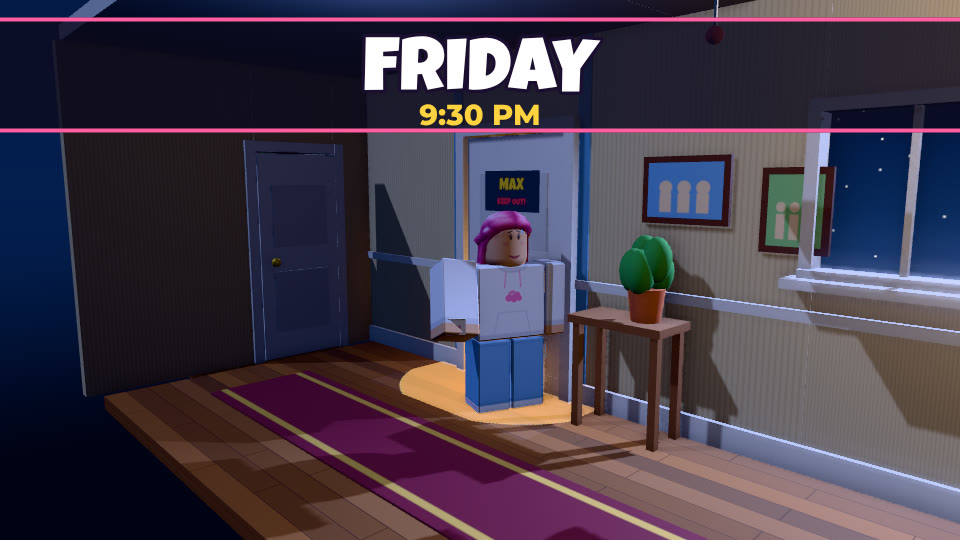
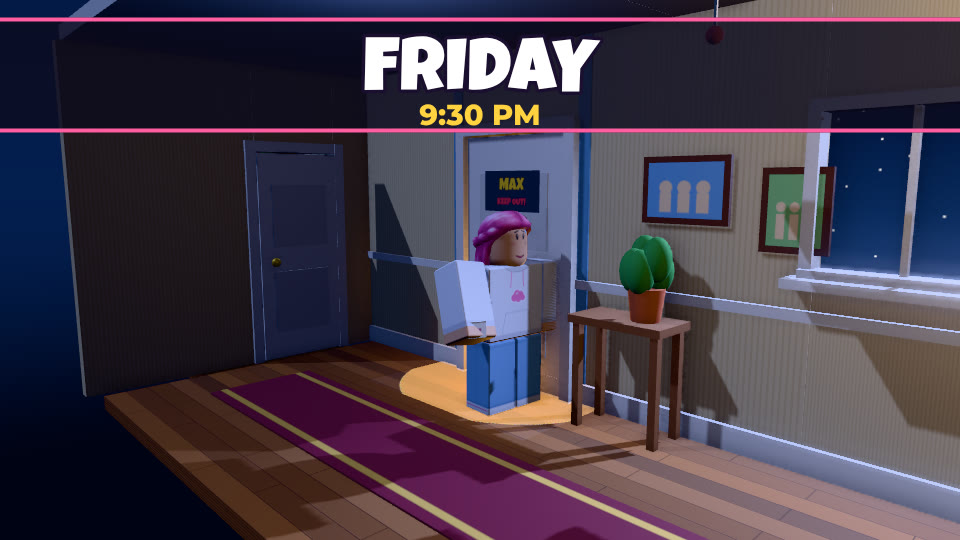
ch08: gate pass-1 fixes (Max phone/garlic/lamp, face fill, door beat from the hall end, no eye wipe, note on knee, teddy hug, opening 3/4)

Changed region(s): [[0.4375, 0.3852, 0.5938, 0.7704], [0.2812, 0.8, 0.3438, 0.8296], [0.625, 0.7407, 0.6562, 0.7704]]

diff --git a/roblox-shorts-studio/projects/i-secretly-lived-in-my-enemys-house/web/ch08.js b/roblox-shorts-studio/projects/i-secretly-lived-in-my-enemys-house/web/ch08.js
@@ -46,7 +46,7 @@ const ramp = (t, t0, t1) => smooth((t - t0) / (t1 - t0));
 
 // key moments (on the narration)
 const T = {
-  crouch: endOf(1, 0.1),                 // she bends to slide the note under the door
+  crouch: endOf(1, -0.25),                 // she bends to slide the note under the door
   rise: endOf(4, 0.05),                  // she straightens up, backs away; the note crumples
   attic: endOf(5, 0.3),                  // cut to the attic
 };
@@ -54,12 +54,12 @@ const T = {
 // ---------- marks (fallbacks are offsets from the set origin until the set defines the mark) ----------
 const M = {
   // Skye beside Max's door (x -9), cheated 3/4 toward the camera side, reading her note
-  door: () => { const m = K.mark('hallway', 'max_door'); return { pos: m.pos.clone().add(V(1.1, 0, -0.1)), heading: 1.2 }; },
+  door: () => { const m = K.mark('hallway', 'max_door'); return { pos: m.pos.clone().add(V(1.1, 0, -0.1)), heading: 1.5 }; },
   // kneeling at the door gap, turned toward the camera side so the face reads
-  doorKneel: () => { const m = K.mark('hallway', 'max_door_kneel'); return { pos: m.pos.clone().add(V(0.5, 0, 0)), heading: 2.3 }; },
-  doorStep: () => { const m = K.mark('hallway', 'max_door_kneel'); return { pos: m.pos.clone().add(V(1.1, 0, 1.0)), heading: 2.3 }; },
-  doorBack: () => { const m = K.mark('hallway', 'max_door_back'); return { pos: m.pos.clone().add(V(1.4, 0, -0.6)), heading: 1.6 }; },
-  bed: () => K.mark('bedroom', 'bed_edge'),
+  doorKneel: () => { const m = K.mark('hallway', 'max_door_kneel'); return { pos: m.pos.clone().add(V(0.3, 0, 0.1)), heading: -Math.PI / 2 }; },
+  doorStep: () => { const m = K.mark('hallway', 'max_door_kneel'); return { pos: m.pos.clone().add(V(0.1, 0, 1.6)), heading: -1.0 }; },
+  doorBack: () => M.doorStep(),
+  bed: () => K.mark('bedroom', 'bed_sit'),
   nest: () => K.mark('attic', 'nest'),
   beside: () => K.mark('attic', 'nest_beside'),
   hatchTop: () => K.mark('attic', 'hatch_top'),
@@ -67,7 +67,7 @@ const M = {
 };
 
 // ---------- setup ----------
-let C, A, P = {}, ATTIC;
+let C, A, P = {}, ATTIC, FILL;
 export async function setup(stage) {
   await K.buildSets(stage, ['hallway', 'bedroom', 'attic']);
   K.setState({ chapter: CH });
@@ -79,14 +79,21 @@ export async function setup(stage) {
   P.crumpled = K.makeProp('note', { state: 'crumpled' }); stage.scene.add(P.crumpled);
   P.phone = K.makeProp('phone', { screen: 'call' }); stage.scene.add(P.phone);
   K.holdTeddy(C.lily, 'L');
+  // a soft warm face fill from the camera side (the night attic is lit only by the standing flashlight)
+  FILL = new THREE.PointLight('#ffe6cc', 0, 0, 2); stage.scene.add(FILL);
 }
 
 // ---------- the shot table ----------
 const HALL = { set: 'hallway', light: 'night_moon', practicals: { moon_window: true, under_door: true, nightlight: true, ceiling_light: 0.3 } };
-const ROOM = { set: 'bedroom', light: 'night_moon', practicals: { bedside_lamp: true, moon_window: true } };
-const ATT = { set: 'attic', light: 'night_moon', practicals: { moon: true, bounce: true, flashlight: true, flashlightCone: true, hatchGlow: true } };
+const ROOM = { set: 'bedroom', light: 'night_moon', practicals: { bedside_lamp: 0.45, moon_window: true } };
+const ATT = { set: 'attic', light: 'night_moon', practicals: { moon: 0.45, bounce: true, flashlight: true, flashlightCone: false, hatchGlow: true } };
 const camS = (name) => (s) => K.setCam(s, K.getSet(SHOTSET[name] || 'hallway').cams[name]);
-const SHOTSET = { bed_edge_ms: 'bedroom' };
+// Max in bed on the phone, 3/4 from the room side, the window with the garlic behind him (k 0 closer, 1 wider)
+const ROOMCAM = (k) => (s) => { const o = K.SET_ORIGIN.bedroom; return K.applyShot(s, { pos: o.clone().add(V(-1.9 + 0.5 * k, 5.4, 0.6 + 1.4 * k)), target: o.clone().add(V(-3.9, 5.2, -6.8)), fov: 40 }); };
+const SHOTSET = { bed_phone_mcu: 'bedroom', bed_phone_ms: 'bedroom' };
+// the door beat from down the hall (the linen-closet end, -x): she kneels side-on to Max's door, right hand at the gap,
+// face to this camera. dist: from her head; h: height above her eyes; look: aim below her eyes.
+const SIDECAM = (dist, h, look, fov) => (s) => { const hd = K.headPos(C.skye); return K.applyShot(s, { pos: hd.clone().add(V(-0.86 * dist, h, 0.5 * dist)), target: hd.add(V(0, look, 0)), fov }); };
 const TWO = (s) => { const a = K.headPos(C.skye), b = K.headPos(C.lily), m = a.clone().add(b).multiplyScalar(0.5); return K.applyShot(s, { pos: m.clone().add(V(0.4, 0.5, 7.4)), target: m.clone().add(V(-0.2, -1.1, 0)), fov: 36 }); };
 const camA = (name) => (s) => K.setCam(s, ATTIC.cams[name]);
 // attic singles: from the room side (+z), each cheated 3/4 toward the other (Lily is on Skye's left, frame-left)
@@ -95,13 +102,13 @@ const SKYE_MCU = headCam(() => C.skye, V(0.5, 0.35, 5.2), 34), SKYE_CU = headCam
 const LILY_MCU = headCam(() => C.lily, V(-0.2, 0.3, 4.4), 28, V(0, -0.15, 0));
 const SHOTS = [
   { line: 0, off: 0, id: 'door_ws', ...HALL, cam: (s, t) => K.applyShot(s, K.blendShot(K.getSet('hallway').cams.wide_to_max_door, { pos: K.headPos(C.skye).add(V(4.6, 0.6, 5.0)), target: K.headPos(C.skye).add(V(0, -0.9, 0)), fov: 38 }, smooth((t - 0.3) / (endOf(0) - 0.3)))) },
-  { line: 1, off: -0.1, id: 'note_mcu', ...HALL, cam: headCam(() => C.skye, V(3.4, 0.3, 3.2), 34, V(0, -0.6, 0)) },
-  { line: 1, off: endOf(1) - at(1), id: 'kneel', ...HALL, cam: headCam(() => C.skye, V(3.6, 0.0, 0.6), 42, V(-0.9, -1.3, -0.8)) },
-  { line: 2, off: -0.1, id: 'max_phone', ...ROOM, cam: headCam(() => C.max, V(4.6, 0.4, -2.6), 34, V(0, -0.7, 0)) },
-  { line: 4, off: -0.1, id: 'max_worst', ...ROOM, cam: headCam(() => C.max, V(5.4, 0.6, -2.4), 40, V(0, -1.2, 0)) },
-  { line: 4, off: 0.9, id: 'skye_hears', ...HALL, cam: headCam(() => C.skye, V(2.5, 0.1, -0.5), 32, V(0, -0.1, 0)) },
-  { line: 4, off: endOf(4) - at(4) + 0.05, id: 'backs_away', ...HALL, cam: headCam(() => C.skye, V(4.6, 0.2, 2.2), 40, V(0, -1.0, 0)) },
-  { line: 5, off: -0.1, id: 'got_it', ...HALL, cam: headCam(() => C.skye, V(3.6, 0.3, 1.2), 32, V(0, -0.4, 0)) },
+  { line: 1, off: -0.1, id: 'note_mcu', ...HALL, cam: headCam(() => C.skye, V(4.2, 0.3, 1.2), 44, V(0, -0.9, 0)) },
+  { line: 1, off: endOf(1) - at(1) - 0.3, id: 'kneel', ...HALL, cam: SIDECAM(4.4, 0.7, -1.2, 42) },
+  { line: 2, off: -0.1, id: 'max_phone', ...ROOM, cam: ROOMCAM(0) },
+  { line: 4, off: -0.1, id: 'max_worst', ...ROOM, cam: ROOMCAM(1) },
+  { line: 4, off: 0.9, id: 'skye_hears', ...HALL, cam: SIDECAM(2.5, 0.1, -0.1, 32) },
+  { line: 4, off: endOf(4) - at(4) + 0.05, id: 'backs_away', ...HALL, cam: SIDECAM(4.6, 0.3, -1.0, 40) },
+  { line: 5, off: -0.1, id: 'got_it', ...HALL, cam: SIDECAM(3.0, 0.3, -0.4, 32) },
   { line: 6, off: -0.35, id: 'lily_hatch', ...ATT, cam: camA('hatch_lily_cu') },
   { line: 7, off: -0.1, id: 'attic_wide', ...ATT, cam: camA('wide') },
   { line: 7, off: 1.3, id: 'skye_worse', ...ATT, cam: SKYE_MCU },
@@ -146,7 +153,7 @@ export function update(t, stage) {
       const read = ramp(t, at(1) - 0.3, at(1) + 0.2) * (1 - ramp(t, endOf(1) - 0.2, endOf(1) + 0.2));
       K.gesture(C.skye, 'hand_hold', 'R');
       if (read > 0) K.gesture(C.skye, 'hold_out', 'R', read);
-      if (kneelK > 0) K.gesture(C.skye, 'tap', 'R', kneelK);
+      if (kneelK > 0) K.gesture(C.skye, [-20, 0, 4], 'R', kneelK);
     } else {
       // backs away from the door (a real backward step, 4 studs/s), then turns and walks off down the hall
       const k = M.doorKneel(), st = M.doorStep(), bk = M.doorBack(), d1 = k.pos.distanceTo(st.pos), stepEnd = backT0 + d1 / 4;
@@ -156,7 +163,7 @@ export function update(t, stage) {
         K.putOn(C.skye, { pos: k.pos.clone().lerp(st.pos, u), heading: k.heading });
       } else {
         const m = K.walk(C.skye, A, st, bk, stepEnd + 0.15, t, { idleAt: 0, endHeading: bk.heading });
-        if (!m.moving) poseAt(C.skye, 'stand', bk, bk.heading);
+        if (!m.moving) { poseAt(C.skye, 'stand', bk, bk.heading); K.gesture(C.skye, [-14, 0, 12], 'R'); }
       }
     }
     const crumpled = t >= T.rise + 0.15;
@@ -171,9 +178,9 @@ export function update(t, stage) {
     K.setState({ chapter: CH, lamp: true });
     const b = M.bed();
     K.posture(C.max, 'sit_upright');
-    K.putOn(C.max, { pos: b.pos.clone().setY(K.seatY(C.max, K.getSet('bedroom').marks.bed_edge.seat)), heading: Math.PI / 2 + 0.35 }, { sit: true });
-    K.gesture(C.max, 'phone_ear', 'R');                 // phone at his right ear (the far side from the camera: his face stays clear)
-    K.hold(P.phone, C.max, 'R', 'ear');
+    K.putOn(C.max, { pos: b.pos.clone().setY(K.seatY(C.max, K.getSet('bedroom').marks.bed_sit.seat)), heading: b.heading + 0.5 }, { sit: true });   // turned to the camera: the phone arm sits beside his head
+    K.gesture(C.max, 'phone_ear', 'L');                 // phone in his left palm against his ear (camera side, beside his face)
+    K.hold(P.phone, C.max, 'L', 'ear');
     P.note.visible = P.crumpled.visible = false;
     const face = t < at(2) + 0.6 ? 'surprised' : t < at(3) ? 'happy' : t < at(3) + 0.9 ? 'nervous' : 'happy';
     K.speak(C.max, face, t, L.said('MAX'));
@@ -185,8 +192,8 @@ export function update(t, stage) {
     // Skye cross-legged in the nest, turned a little toward Lily
     poseAt(C.skye, 'sit_cross', M.nest(), 0.25);
     K.gesture(C.skye, 'hand_hold', 'R');
-    const wipe = ramp(t, at(18) + 0.2, at(18) + 0.6) * (1 - ramp(t, endOf(18) - 0.6, endOf(18) - 0.2));
-    if (wipe > 0) K.gesture(C.skye, 'eye_wipe', 'L', wipe);
+    const knee = ramp(t, at(18) - 0.3, at(18) + 0.2);              // the last line: her fist with the note comes to rest on her knee
+    if (knee > 0) K.gesture(C.skye, [-46, 0, -4], 'R', knee);
     K.hold(P.crumpled, C.skye, 'R'); P.crumpled.visible = true; P.note.visible = false; P.phone.visible = false;
     const sf = t < at(7) ? 'sad' : t < at(9) ? 'sad' : t < at(11) ? 'annoyed' : t < at(12) + 3.5 ? 'sad'
       : t < at(13) ? 'annoyed' : t < at(14) ? 'determined' : t < at(15) ? 'scheming' : t < at(18) ? 'determined' : 'crying';
@@ -204,15 +211,21 @@ export function update(t, stage) {
     } else if (t < arrive) {
       K.walk(C.lily, A, top, side, walkT0, t);
     } else {
-      poseAt(C.lily, 'sit_cross', side, side.heading);
+      poseAt(C.lily, 'sit_cross', side, side.heading, { extra: { 'Arm.L': [-48, 0, 26], 'Arm.R': [-42, 0, -26] } });
     }
-    K.holdTeddy(C.lily, 'L');
+    K.holdTeddy(C.lily, t >= arrive ? 'hug' : 'L');
     const lf = t < at(8) ? 'nervous' : t < at(10) ? 'surprised' : t < at(12) ? 'suspicious'
       : t < at(12) + 4.2 ? 'neutral' : t < at(13) ? 'smug' : 'sad';
     K.speak(C.lily, lf, t, L.said('LILY'));
   }
   sh.cam(stage, t);
+  // face fill from the lens (a little above it), attic and bedroom only; scaled by the distance to the nearest face so
+  // close-ups and wides get the same light on the face
+  const c = stage.camera, near = Math.min(...['skye', 'lily', 'max'].filter((k) => C[k].root.visible).map((k) => c.position.distanceTo(K.headPos(C[k]))));
+  FILL.position.copy(c.position).add(V(0, 0.5, 0));
+  FILL.intensity = (sh.set === 'attic' ? FILL_I.attic : sh.set === 'bedroom' ? FILL_I.bedroom : 0) * near * near;
 }
+const FILL_I = { attic: 1.3, bedroom: 0.4 };
 
 // ---------- overlay ----------
 export function overlay(g, s, t) {

diff --git a/roblox-shorts-studio/projects/i-secretly-lived-in-my-enemys-house/web/ch08_hold.js b/roblox-shorts-studio/projects/i-secretly-lived-in-my-enemys-house/web/ch08_hold.js
@@ -9,7 +9,7 @@ const LIST = [
   [at(1, 1.0), 'note', 'note folded (reading it)'],
   [at(2, -0.4), 'note', 'note at the door gap (kneeling)'],
   [at(5, 0.5), 'crumpled', 'crumpled note in her fist (hallway)'],
-  [at(3, 0.5), 'phone', 'phone at Max\'s ear'],
+  [at(3, 0.5), 'phone', 'phone at Max\'s ear (left hand)'],
   [at(9, 0.5), 'crumpled', 'crumpled note (nest)'],
   [at(18, 1.0), 'crumpled', 'crumpled note (nest, end)'],
   [at(6, 0.6), 'teddy', 'teddy (Lily up through the hatch)'],
